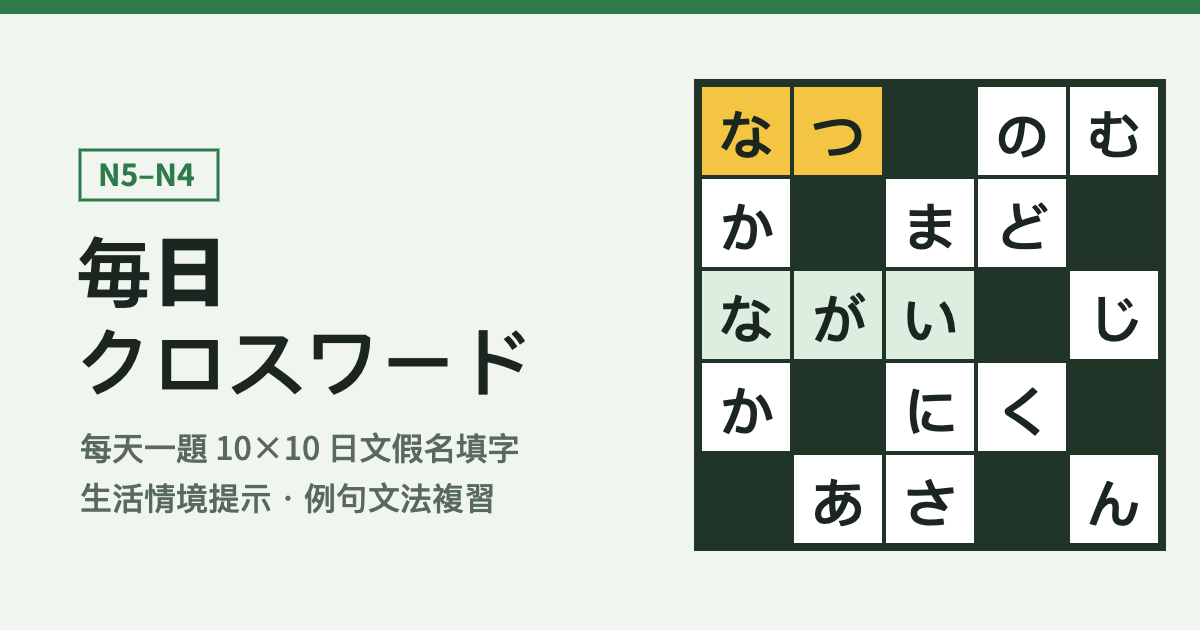
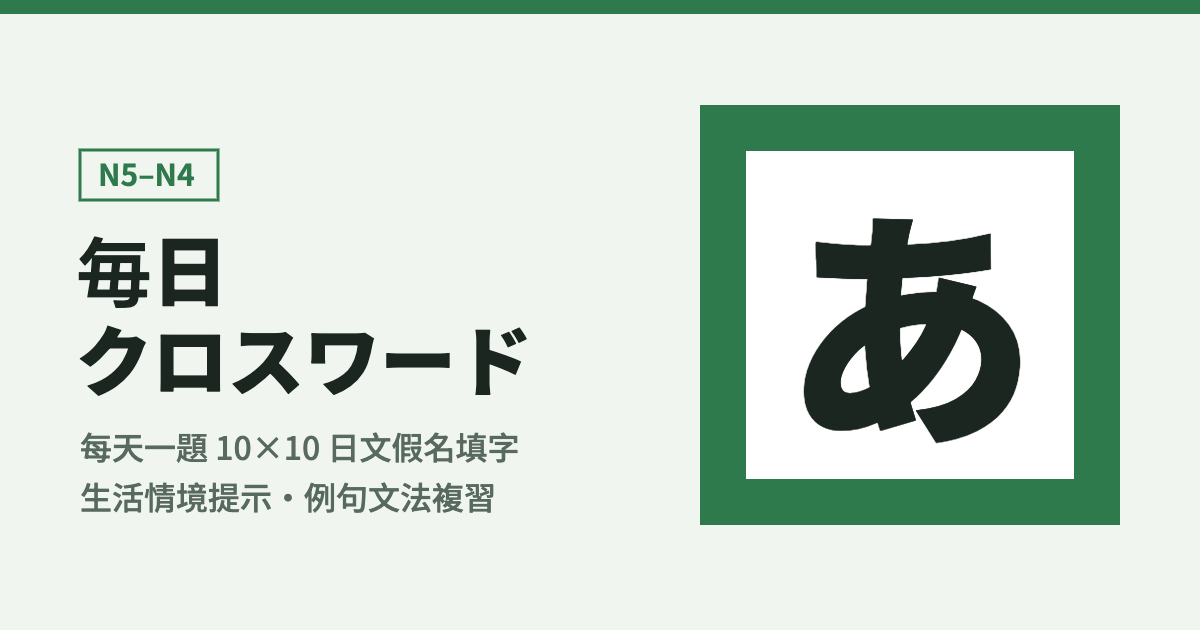
預覽圖改為「あ」、提示列移到格子下方、題目檔加版本號避免快取、修正手機邊距

diff --git a/docs/index.html b/docs/index.html
@@ -55,7 +55,7 @@
 }
 * { box-sizing: border-box; }
 [hidden] { display: none !important; }
-body { background: var(--paper); color: var(--ink); font-family: var(--font-body); font-size: 15px; line-height: 1.55; }
+body { margin: 0; background: var(--paper); color: var(--ink); font-family: var(--font-body); font-size: 15px; line-height: 1.55; }
 .wrap { max-width: 1040px; margin: 0 auto; padding-inline: 16px; padding-block: 18px 48px; }
 button { font: inherit; color: inherit; cursor: pointer; }
 button:focus-visible, input:focus-visible { outline: 2px solid var(--ai); outline-offset: 2px; }
@@ -79,7 +79,7 @@ header { display: flex; flex-direction: column; align-items: center; text-align:
 .desk { display: grid; grid-template-columns: minmax(0, 520px) minmax(0, 1fr); gap: 28px; align-items: start; }
 @media (max-width: 820px) { .desk { grid-template-columns: minmax(0, 1fr); } .board { max-width: 520px; margin: 0 auto; width: 100%; } }
 
-.clue-bar { display: flex; gap: 10px; align-items: center; background: var(--ai); color: var(--sheet); border-radius: var(--radius) var(--radius) 0 0; padding: 9px 12px; min-height: 52px; }
+.clue-bar { display: flex; gap: 10px; align-items: center; background: var(--ai); color: var(--sheet); border-radius: 0 0 var(--radius) var(--radius); padding: 9px 12px; min-height: 52px; }
 :root[data-theme="dark"] .clue-bar { color: #0C140F; }
 @media (prefers-color-scheme: dark) { :root:not([data-theme="light"]) .clue-bar { color: #0C140F; } }
 .clue-bar .tag { font-family: var(--font-kana); font-weight: 600; font-size: 14px; white-space: nowrap; opacity: .9; }
@@ -260,15 +260,15 @@ header { display: flex; flex-direction: column; align-items: center; text-align:
     </div>
     <div class="board">
       <div class="board-play">
+      <div class="gridbox">
+        <div class="grid" id="grid" role="grid" aria-label="填字格"></div>
+        <input id="kbd" autocomplete="off" autocapitalize="off" autocorrect="off" spellcheck="false" aria-label="輸入假名">
+      </div>
       <div class="clue-bar">
         <button class="arr" id="cbPrev" aria-label="上一題">‹</button>
         <span class="tag" id="cbTag"></span>
         <span class="txt" id="cbTxt"></span>
         <button class="arr" id="cbNext" aria-label="下一題">›</button>
-      </div>
-      <div class="gridbox">
-        <div class="grid" id="grid" role="grid" aria-label="填字格"></div>
-        <input id="kbd" autocomplete="off" autocapitalize="off" autocorrect="off" spellcheck="false" aria-label="輸入假名">
       </div>
       <div class="tools">
         <button id="bLetter">提示一格</button>
@@ -328,7 +328,7 @@ header { display: flex; flex-direction: column; align-items: center; text-align:
 </div>
 <div class="toast" id="toast" hidden></div>
 
-<script src="puzzles.js"></script>
+<script src="puzzles.js?v=c22394da"></script>
 <script>
 (() => {
 const N = 10, DAY = 86400000;

diff --git a/index.html b/index.html
@@ -35,7 +35,7 @@
 }
 * { box-sizing: border-box; }
 [hidden] { display: none !important; }
-body { background: var(--paper); color: var(--ink); font-family: var(--font-body); font-size: 15px; line-height: 1.55; }
+body { margin: 0; background: var(--paper); color: var(--ink); font-family: var(--font-body); font-size: 15px; line-height: 1.55; }
 .wrap { max-width: 1040px; margin: 0 auto; padding-inline: 16px; padding-block: 18px 48px; }
 button { font: inherit; color: inherit; cursor: pointer; }
 button:focus-visible, input:focus-visible { outline: 2px solid var(--ai); outline-offset: 2px; }
@@ -59,7 +59,7 @@ header { display: flex; flex-direction: column; align-items: center; text-align:
 .desk { display: grid; grid-template-columns: minmax(0, 520px) minmax(0, 1fr); gap: 28px; align-items: start; }
 @media (max-width: 820px) { .desk { grid-template-columns: minmax(0, 1fr); } .board { max-width: 520px; margin: 0 auto; width: 100%; } }
 
-.clue-bar { display: flex; gap: 10px; align-items: center; background: var(--ai); color: var(--sheet); border-radius: var(--radius) var(--radius) 0 0; padding: 9px 12px; min-height: 52px; }
+.clue-bar { display: flex; gap: 10px; align-items: center; background: var(--ai); color: var(--sheet); border-radius: 0 0 var(--radius) var(--radius); padding: 9px 12px; min-height: 52px; }
 :root[data-theme="dark"] .clue-bar { color: #0C140F; }
 @media (prefers-color-scheme: dark) { :root:not([data-theme="light"]) .clue-bar { color: #0C140F; } }
 .clue-bar .tag { font-family: var(--font-kana); font-weight: 600; font-size: 14px; white-space: nowrap; opacity: .9; }
@@ -240,15 +240,15 @@ header { display: flex; flex-direction: column; align-items: center; text-align:
     </div>
     <div class="board">
       <div class="board-play">
+      <div class="gridbox">
+        <div class="grid" id="grid" role="grid" aria-label="填字格"></div>
+        <input id="kbd" autocomplete="off" autocapitalize="off" autocorrect="off" spellcheck="false" aria-label="輸入假名">
+      </div>
       <div class="clue-bar">
         <button class="arr" id="cbPrev" aria-label="上一題">‹</button>
         <span class="tag" id="cbTag"></span>
         <span class="txt" id="cbTxt"></span>
         <button class="arr" id="cbNext" aria-label="下一題">›</button>
-      </div>
-      <div class="gridbox">
-        <div class="grid" id="grid" role="grid" aria-label="填字格"></div>
-        <input id="kbd" autocomplete="off" autocapitalize="off" autocorrect="off" spellcheck="false" aria-label="輸入假名">
       </div>
       <div class="tools">
         <button id="bLetter">提示一格</button>
